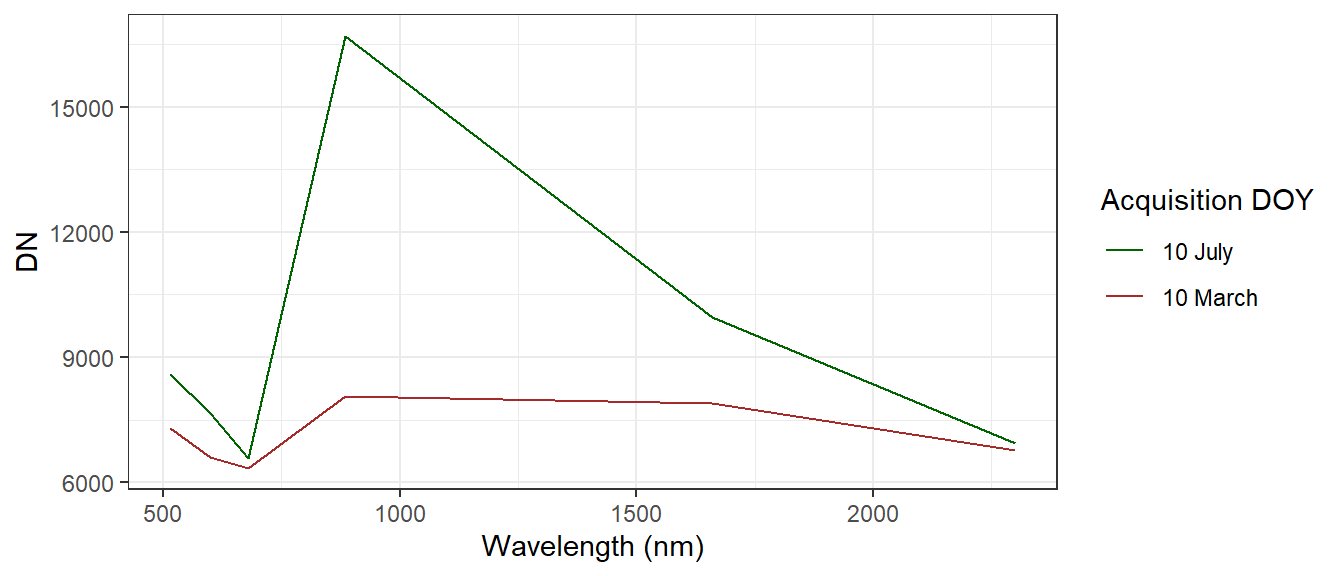
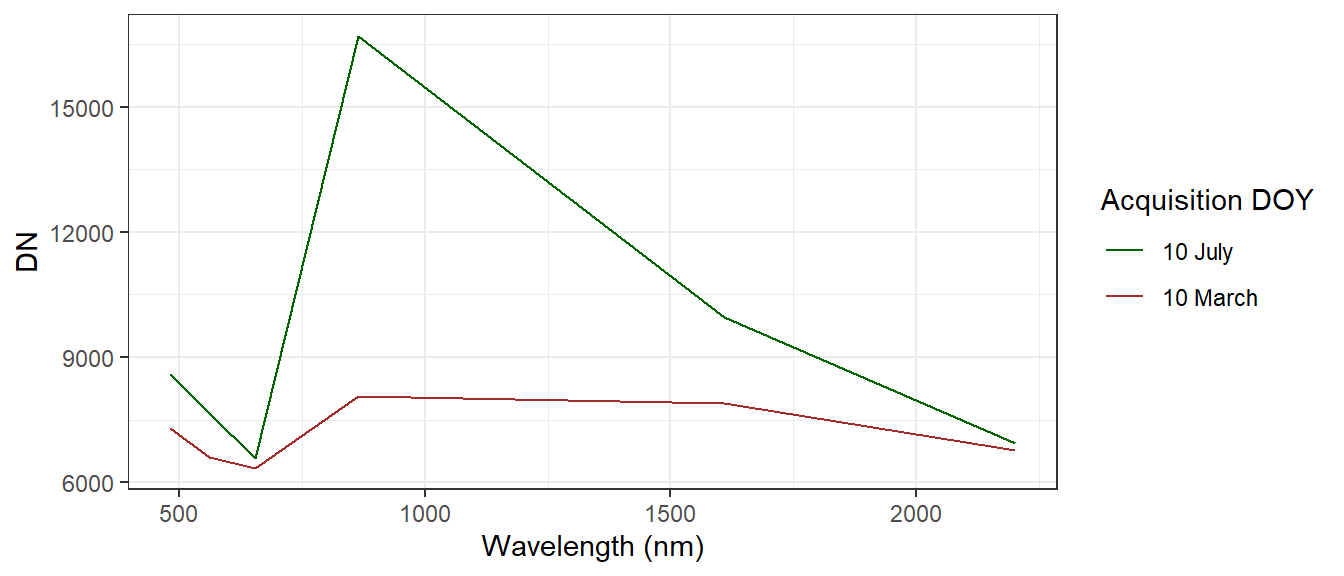
s01 update wavelengths

diff --git a/docs/index.html b/docs/index.html
@@ -875,7 +875,7 @@ vector a: 2 4 8 16 32</code></pre>
 <a class="sourceLine" id="cb59-3" data-line-number="3"></a>
 <a class="sourceLine" id="cb59-4" data-line-number="4"><span class="co"># Create a data frame combining extracted values with </span></a>
 <a class="sourceLine" id="cb59-5" data-line-number="5"><span class="co"># band wavelengths and acquisition date </span></a>
-<a class="sourceLine" id="cb59-6" data-line-number="6">profile &lt;-<span class="st"> </span><span class="kw">data.frame</span>(<span class="st">&#39;wavelength&#39;</span>=<span class="kw">rep</span>(<span class="kw">c</span>(<span class="dv">515</span>, <span class="dv">600</span>, <span class="dv">680</span>, <span class="dv">885</span>, <span class="dv">1660</span>, <span class="dv">2300</span>),<span class="dv">2</span>), </a>
+<a class="sourceLine" id="cb59-6" data-line-number="6">profile &lt;-<span class="st"> </span><span class="kw">data.frame</span>(<span class="st">&#39;wavelength&#39;</span>=<span class="kw">rep</span>(<span class="kw">c</span>(<span class="dv">482</span>, <span class="dv">561</span>, <span class="dv">655</span>, <span class="dv">865</span>, <span class="dv">1609</span>, <span class="dv">2201</span>),<span class="dv">2</span>), </a>
 <a class="sourceLine" id="cb59-7" data-line-number="7">                      <span class="st">&#39;date&#39;</span>=<span class="kw">as.factor</span>(<span class="kw">c</span>(<span class="kw">rep</span>(<span class="st">&#39;10 March&#39;</span>, <span class="dv">6</span>), <span class="kw">rep</span>(<span class="st">&#39;10 July&#39;</span>, <span class="dv">6</span>))),</a>
 <a class="sourceLine" id="cb59-8" data-line-number="8">                      <span class="st">&#39;values&#39;</span>=<span class="kw">as.numeric</span>(cellvals))</a>
 <a class="sourceLine" id="cb59-9" data-line-number="9"></a>
@@ -891,18 +891,18 @@ vector a: 2 4 8 16 32</code></pre>
 <a class="sourceLine" id="cb59-19" data-line-number="19"><span class="st">      </span><span class="kw">theme_bw</span>() <span class="co"># Chose black/white layout</span></a></code></pre></div>
 <p><img src="index_files/figure-html/profile_plot-1.png" width="672" style="display: block; margin: auto;" /></p>
 <pre><code>   wavelength     date values
-1         515 10 March   7311
-2         600 10 March   6601
-3         680 10 March   6347
-4         885 10 March   8061
-5        1660 10 March   7897
-6        2300 10 March   6766
-7         515  10 July   8596
-8         600  10 July   7660
-9         680  10 July   6576
-10        885  10 July  16698
-11       1660  10 July   9971
-12       2300  10 July   6935</code></pre>
+1         482 10 March   7311
+2         561 10 March   6601
+3         655 10 March   6347
+4         865 10 March   8061
+5        1609 10 March   7897
+6        2201 10 March   6766
+7         482  10 July   8596
+8         561  10 July   7660
+9         655  10 July   6576
+10        865  10 July  16698
+11       1609  10 July   9971
+12       2201  10 July   6935</code></pre>
 <p>Can you guess what type of surface we are looking at?</p>
 <hr />
 </div>
@@ -1129,8 +1129,8 @@ vector a: 2 4 8 16 32</code></pre>
 <pre><code> [1] 0 0 0 0 1 0 1 0 1 1 1 1 0 1 0 0</code></pre>
 <p>Now we can compare with the Landsat 8 Collection 1 Level 1 QA band bit designation. What´s the pixel quality information of the integer value 2804?</p>
 <div class="figure">
-<img src="fig/s02_landsat_qa_decode.PNG" alt="Landsat QA band bit designation" style="width:70.0%" />
-<p class="caption">Landsat QA band bit designation</p>
+<img src="fig/s02_landsat_qa_decode.PNG" alt="Landsat QA band bit designation. Source: USGS" style="width:70.0%" />
+<p class="caption">Landsat QA band bit designation. Source: USGS</p>
 </div>
 <p>Solution: We are looking at a cloud pixel with radiometric saturation affecting 1-2 bands.</p>
 <hr />
@@ -1176,7 +1176,7 @@ vector a: 2 4 8 16 32</code></pre>
 <p>In this paper, a long time series of Landsat image composites at five year intervals is used to study the dynamics of forest disturbance, recovery and changes in forest types across the Carpathian ecoregion. Please make sure to read the paper thoroughly and focus on the following broad questions:</p>
 <ul>
 <li>What is the motivation for this article?</li>
-<li>What is the key method used here?</li>
+<li>What is the key method used in the study?</li>
 <li>What are the uncertainties related to the findings?</li>
 </ul>
 <hr />
